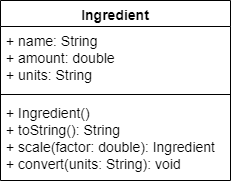
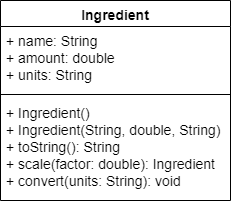
Fix UML

diff --git a/content/07-objects/08-java/03-instances-testing.md b/content/07-objects/08-java/03-instances-testing.md
@@ -17,6 +17,12 @@ public class Ingredient{
         this.amount = 2.0;
         this.units = "cup";
     }
+
+    public Ingredient(String name, double amount, String units){
+        this.name = name;
+        this.amount = amount;
+        this.units = units;
+    }
 }
 ```
 
@@ -100,6 +106,13 @@ public class Ingredient{
         this.amount = 2.0;
         this.units = "cup";
     }
+
+    public Ingredient(String name, double amount, String units){
+        this.name = name;
+        this.amount = amount;
+        this.units = units;
+    }
+
     private static void main(String[] args){
         Ingredient ingr1 = new Ingredient();
         System.out.println(ingr1.name);

diff --git a/content/07-objects/08-java/04-instance-methods.md b/content/07-objects/08-java/04-instance-methods.md
@@ -24,6 +24,12 @@ public class Ingredient{
         this.units = "cup";
     }
 
+    public Ingredient(String name, double amount, String units){
+        this.name = name;
+        this.amount = amount;
+        this.units = units;
+    }
+
     public String toString(){
         return String.format("%.2f",amount) + " " + units + " of " + name;
     }

diff --git a/content/07-objects/08-java/02-initialization.md b/content/07-objects/08-java/02-initialization.md
@@ -74,4 +74,3 @@ Feel free to refer to the UML diagram below to find the correct instance attribu
 
 ![UML Class Diagram showing Ingredient](/images/07-object/ingredient_uml.png)
 
-
